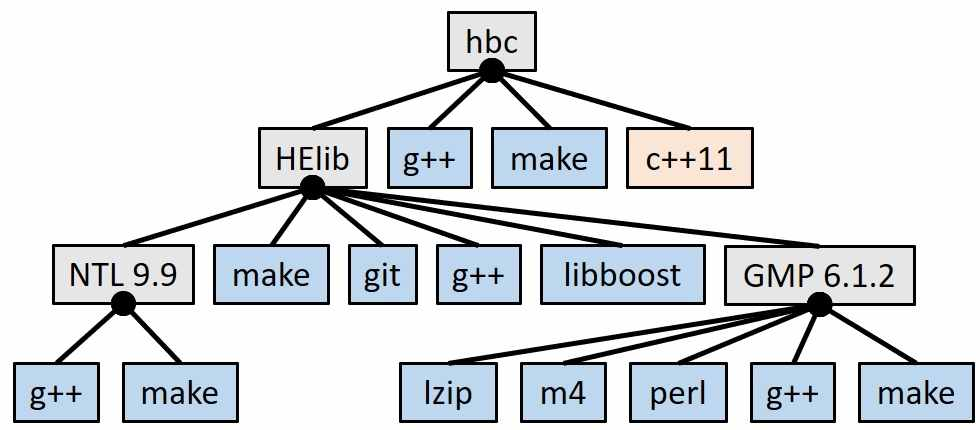
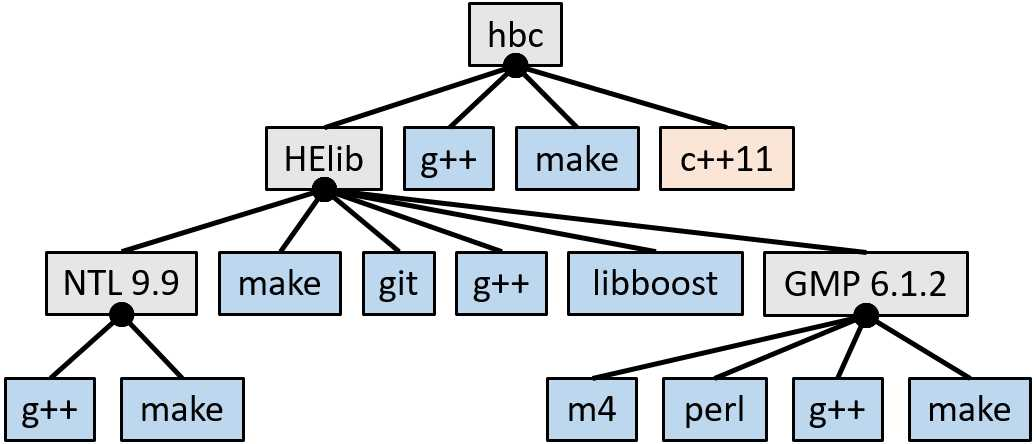
Changed gmp from lz to bz2 download format (removed lzip, updated doc) and fixed cygwin makefile

Changed region(s): [[0.0, 0.0, 1.0, 0.9977], [0.7653, 0.3023, 0.7959, 0.3326]]

diff --git a/README.md b/README.md
@@ -80,16 +80,16 @@ This basically launches an Ubuntu-based virtual machine with only what is necess
         - Mac OSX
             1. Install Xcode manually or with `xcode-select --install`
             2. Install brew with `ruby -e "$(curl -fsSL https://raw.githubusercontent.com/Homebrew/install/master/install)"`
-            3. Install libraries with `brew install wget git g++ m4 perl lzip XXX libboost`
+            3. Install libraries with `brew install wget git g++ m4 perl libboost`
             4. Download GMP with `curl https://gmplib.org/download/gmp/gmp-6.1.2.tar.bz2 > gmp-6.1.2.tar.bz2`
-            5. Extract it and go to its directory with `tar xjf gmp-6.1.2.tar.bz2 && cd gmp-6.1.2`
+            5. Extract it and go to its directory with `tar -xvjf gmp-6.1.2.tar.bz2 && cd gmp-6.1.2`
             6. Configure it with `./configure`
             7. Build it with `make`
             8. Install it with `make install`
             9. *Optionally*, check it with `make check`
             10. Go back and remove used files with `cd .. && rm -fr gmp-6.1.2*`
             10. Download NTL with `curl http://www.shoup.net/ntl/ntl-9.9.1.tar.gz > ntl-9.9.1.tar.gz`
-            11. Extract it and go to its directory with `tar xvzf ntl-9.9.1.tar.gz && cd ntl-9.9.1/src`
+            11. Extract it and go to its directory with `tar -xvzf ntl-9.9.1.tar.gz && cd ntl-9.9.1/src`
             12. Configure it with `./configure NTL_GMP_LIP=on`
             13. Build it with `make`
             14. Install it with `make install`
@@ -100,16 +100,16 @@ This basically launches an Ubuntu-based virtual machine with only what is necess
             19. *Optionally*, check it with `make check` and test it with `make test`.
             20. Go back to the working directory with `cd ../..`
         - Other Linux OSes
-            1. Install the libaries with (add `*sudo*` maybe) `apt-get install git g++ m4 perl lzip libboost-all-dev`
+            1. Install the libaries with (add `*sudo*` maybe) `apt-get install git g++ m4 perl libboost-all-dev`
             2. Download GMP with `wget https://gmplib.org/download/gmp/gmp-6.1.2.tar.bz2`
-            3. Extract it and go to its directory with `tar xjf gmp-6.1.2.tar.bz2 && cd gmp-6.1.2`
+            3. Extract it and go to its directory with `tar -xvjf gmp-6.1.2.tar.bz2 && cd gmp-6.1.2`
             4. Configure it with `./configure`
             5. Build it with `make`
             6. Install it with `make install`
             7. *Optionally*, check it with `make check`
             8. Go back and remove used files with `cd .. && rm -fr gmp-6.1.2*`
             9. Download NTL with `wget http://www.shoup.net/ntl/ntl-9.9.1.tar.gz`
-            10. Extract it and go to its directory with `tar xvzf ntl-9.9.1.tar.gz && cd ntl-9.9.1/src`
+            10. Extract it and go to its directory with `tar -xvzf ntl-9.9.1.tar.gz && cd ntl-9.9.1/src`
             11. Configure it with `./configure NTL_GMP_LIP=on`
             12. Build it with `make`
             13. Install it with `make install`
@@ -122,9 +122,9 @@ This basically launches an Ubuntu-based virtual machine with only what is necess
         - Cygwin 32 bit
             1. Install apt-cyg with 
             2. Manually install git and gcc-g++ (and make) with the Cygwin installer.
-            3. Install the libaries with `apt-cyg install git g++ m4 perl lzip libboost-devel`
+            3. Install the libaries with `apt-cyg install git g++ m4 perl libboost-devel`
             4. Download GMP with `wget https://gmplib.org/download/gmp/gmp-6.1.2.tar.bz2`
-            5. Extract it and go to its directory with `tar xjf gmp-6.1.2.tar.bz2 && cd gmp-6.1.2`
+            5. Extract it and go to its directory with `tar -xvjf gmp-6.1.2.tar.bz2 && cd gmp-6.1.2`
             6. Configure it with `./configure`
             7. Build it with `make`
             6. Install it with `make install`
@@ -132,7 +132,7 @@ This basically launches an Ubuntu-based virtual machine with only what is necess
             8. Enter `cp -f /usr/local/lib/libgmp.* /usr/**XXXXX**-pc-cygwin/lib/` where **XXXXX** is your CPU architecture.
             9. Go back and remove used files with `cd .. && rm -fr gmp-6.1.2*`
             10. Download NTL with `wget http://www.shoup.net/ntl/ntl-9.9.1.tar.gz`
-            11. Extract it and go to its src directory with `tar xvzf ntl-9.9.1.tar.gz && cd ntl-9.9.1/src`
+            11. Extract it and go to its src directory with `tar -xvzf ntl-9.9.1.tar.gz && cd ntl-9.9.1/src`
             12. Configure it with `./configure NTL_GMP_LIP=on`
             13. Build it with `make`
             14. Install it with `make install`
